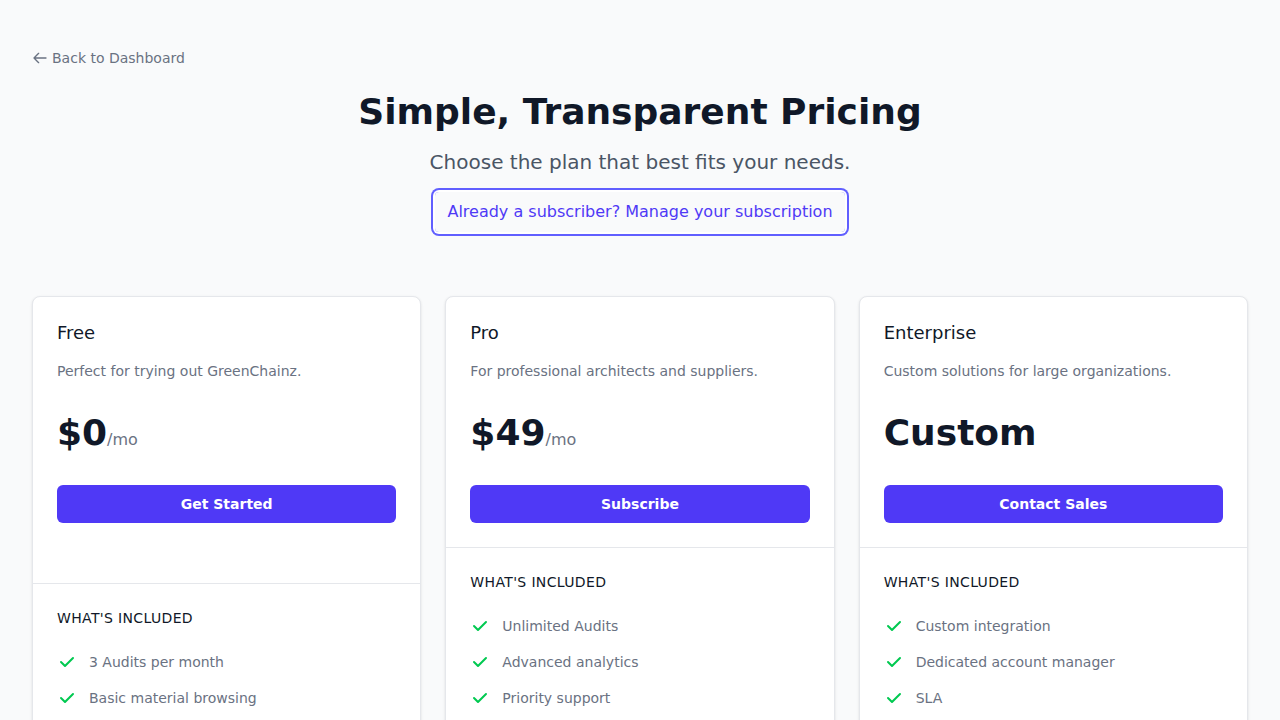
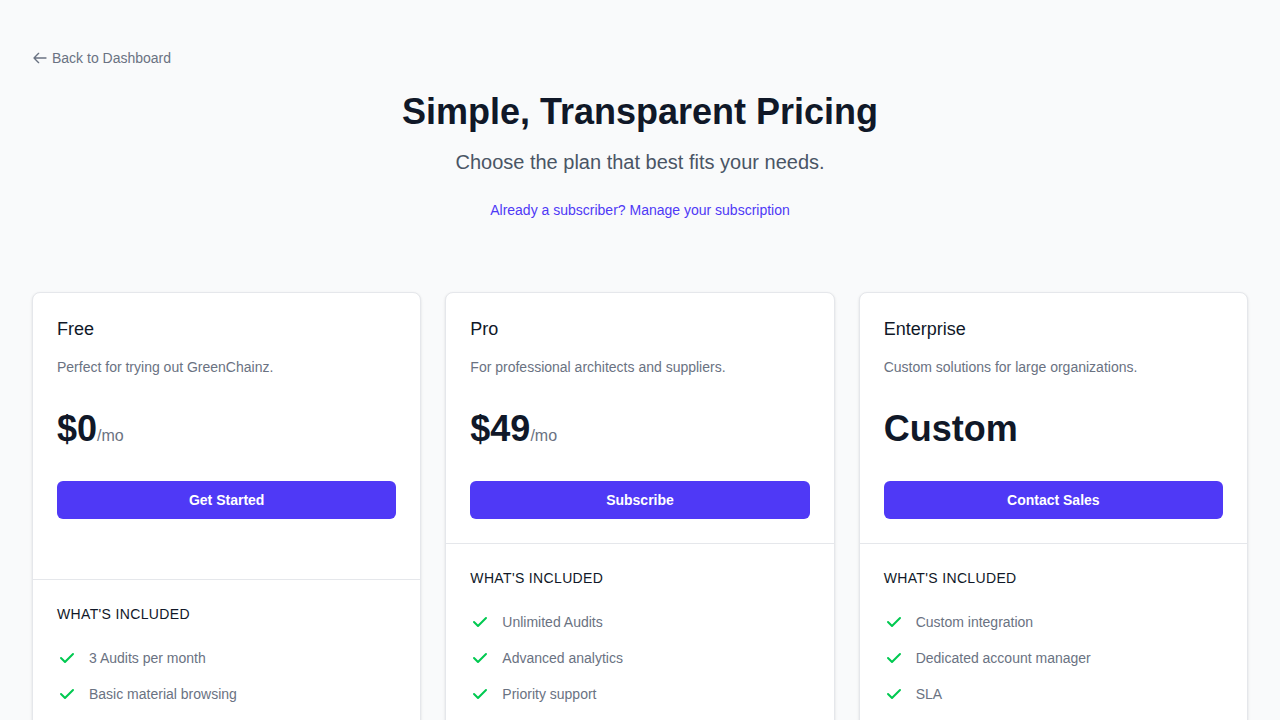
Fix: Clean up Billing page button and improve UX
- Removed duplicate `className` and `disabled` attributes from the "Manage Subscription" button in `web/app/billing/page.tsx` which were causing build errors and confusing behavior.
- Consolidated styles into a clean "Ghost Button" pattern (`text-indigo-600 hover:bg-indigo-50`) to clearly indicate a secondary action.
- Added `focus-visible` styles for improved keyboard accessibility without visual clutter for mouse users.
- Ensured `aria-busy` and `title` attributes are preserved for accessibility.

diff --git a/web/app/billing/page.tsx b/web/app/billing/page.tsx
@@ -176,13 +176,9 @@ export default function BillingPage() {
           <div className="mt-4">
              <button
                onClick={handleManageSubscription}
-               className="text-indigo-600 hover:text-indigo-500 font-medium hover:underline focus:outline-none focus-visible:ring-2 focus-visible:ring-offset-2 focus-visible:ring-indigo-500 rounded px-3 py-2 transition-colors flex items-center justify-center mx-auto"
+               className="mx-auto flex items-center justify-center rounded-md px-4 py-2 text-sm font-medium text-indigo-600 transition-colors hover:bg-indigo-50 hover:text-indigo-700 focus:outline-none focus-visible:ring-2 focus-visible:ring-indigo-500 focus-visible:ring-offset-2 disabled:cursor-not-allowed disabled:opacity-50"
                disabled={!!loadingTierId}
                aria-busy={loadingTierId === 'manage'}
-               className="mx-auto flex items-center justify-center rounded-md px-4 py-2 text-sm font-medium text-indigo-600 transition-colors hover:bg-indigo-50 hover:text-indigo-700 focus:outline-none focus-visible:ring-2 focus-visible:ring-indigo-500 focus-visible:ring-offset-2 disabled:cursor-not-allowed disabled:opacity-50"
-               className="text-indigo-600 hover:text-indigo-500 hover:underline focus:outline-none focus:ring-2 focus:ring-offset-2 focus:ring-indigo-500 rounded px-2 py-1 transition-colors flex items-center justify-center mx-auto"
-               className="text-indigo-600 hover:text-indigo-800 hover:underline focus:outline-none focus:ring-2 focus:ring-offset-2 focus:ring-indigo-500 rounded px-2 py-1 transition-colors flex items-center justify-center mx-auto"
-               disabled={!!loadingTierId}
                title="Manage your existing subscription and billing details"
              >
                  {loadingTierId === 'manage' && <Spinner className="mr-2 text-indigo-600" />}

diff --git a/verification/verify_billing_button.py b/verification/verify_billing_button.py
@@ -1,0 +1,32 @@
+from playwright.sync_api import sync_playwright
+
+def verify_billing_button():
+    with sync_playwright() as p:
+        browser = p.chromium.launch(headless=True)
+        page = browser.new_page()
+
+        try:
+            print("Navigating to billing page...")
+            page.goto("http://localhost:3000/billing")
+
+            print("Waiting for button...")
+            # Locate the button by its text
+            button = page.get_by_role("button", name="Manage your subscription")
+
+            # Check if it's visible
+            if button.is_visible():
+                print("Button is visible.")
+            else:
+                print("Button not found!")
+
+            # Take a screenshot of the whole page
+            page.screenshot(path="verification/billing_page.png")
+            print("Screenshot saved to verification/billing_page.png")
+
+        except Exception as e:
+            print(f"Error: {e}")
+        finally:
+            browser.close()
+
+if __name__ == "__main__":
+    verify_billing_button()

diff --git a/.Jules/palette.md b/.Jules/palette.md
@@ -15,3 +15,12 @@
 **Action:**
 1.  Use semantic colors for data visualization where status is implied.
 2.  Add fade-in transitions to page wrappers when using Next.js Suspense/Loading boundaries.
+
+## 2025-05-21 - Ghost Buttons & Focus Rings
+**Learning:**
+1.  **Ghost Button Pattern:** For secondary actions (like "Manage Subscription" below main pricing cards), a "Ghost Button" style (`text-[brand] hover:bg-[brand]-50`) offers better affordance than a plain text link while remaining subordinate to primary solid buttons.
+2.  **Focus Visibility:** Using `focus-visible:ring` instead of standard `focus:ring` is critical for these text-heavy buttons to avoid ugly outlines on mouse clicks while preserving accessibility for keyboard users.
+
+**Action:**
+1.  Use `hover:bg-[brand]-50` + `rounded-md` for secondary text buttons.
+2.  Always pair custom button styles with `focus-visible` ring utilities.
